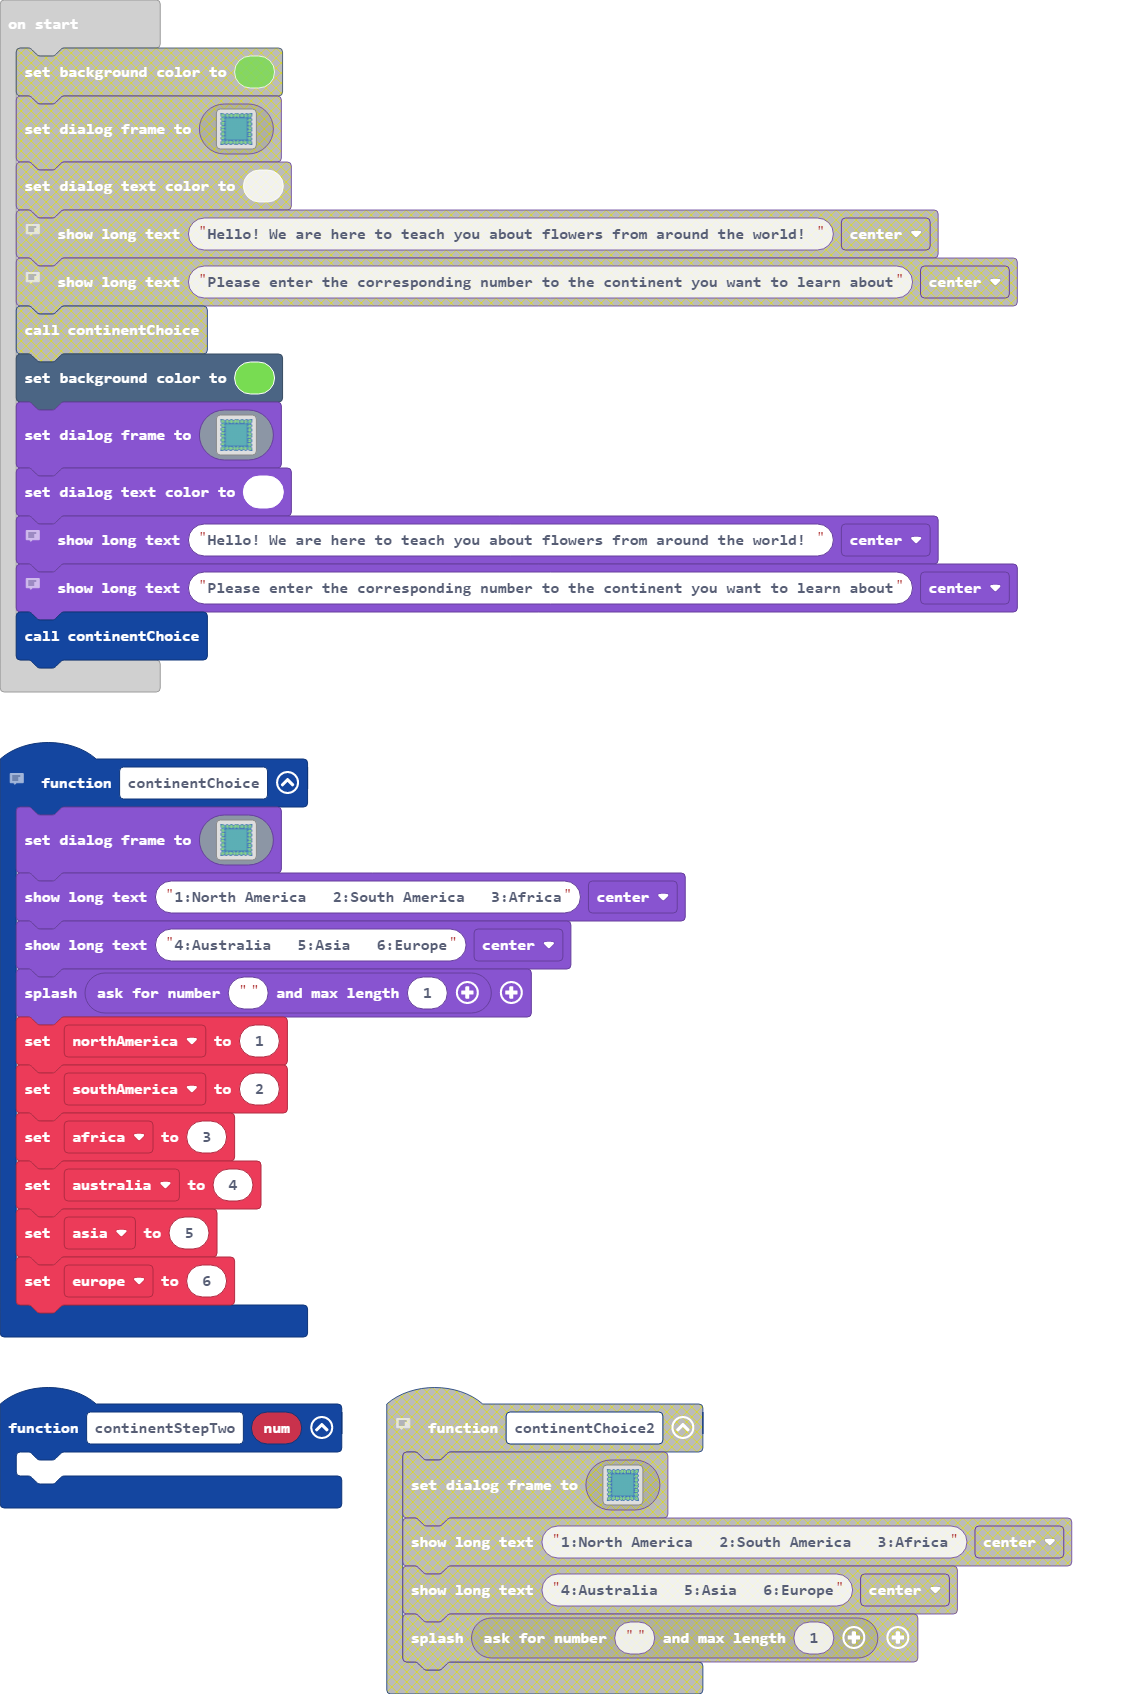
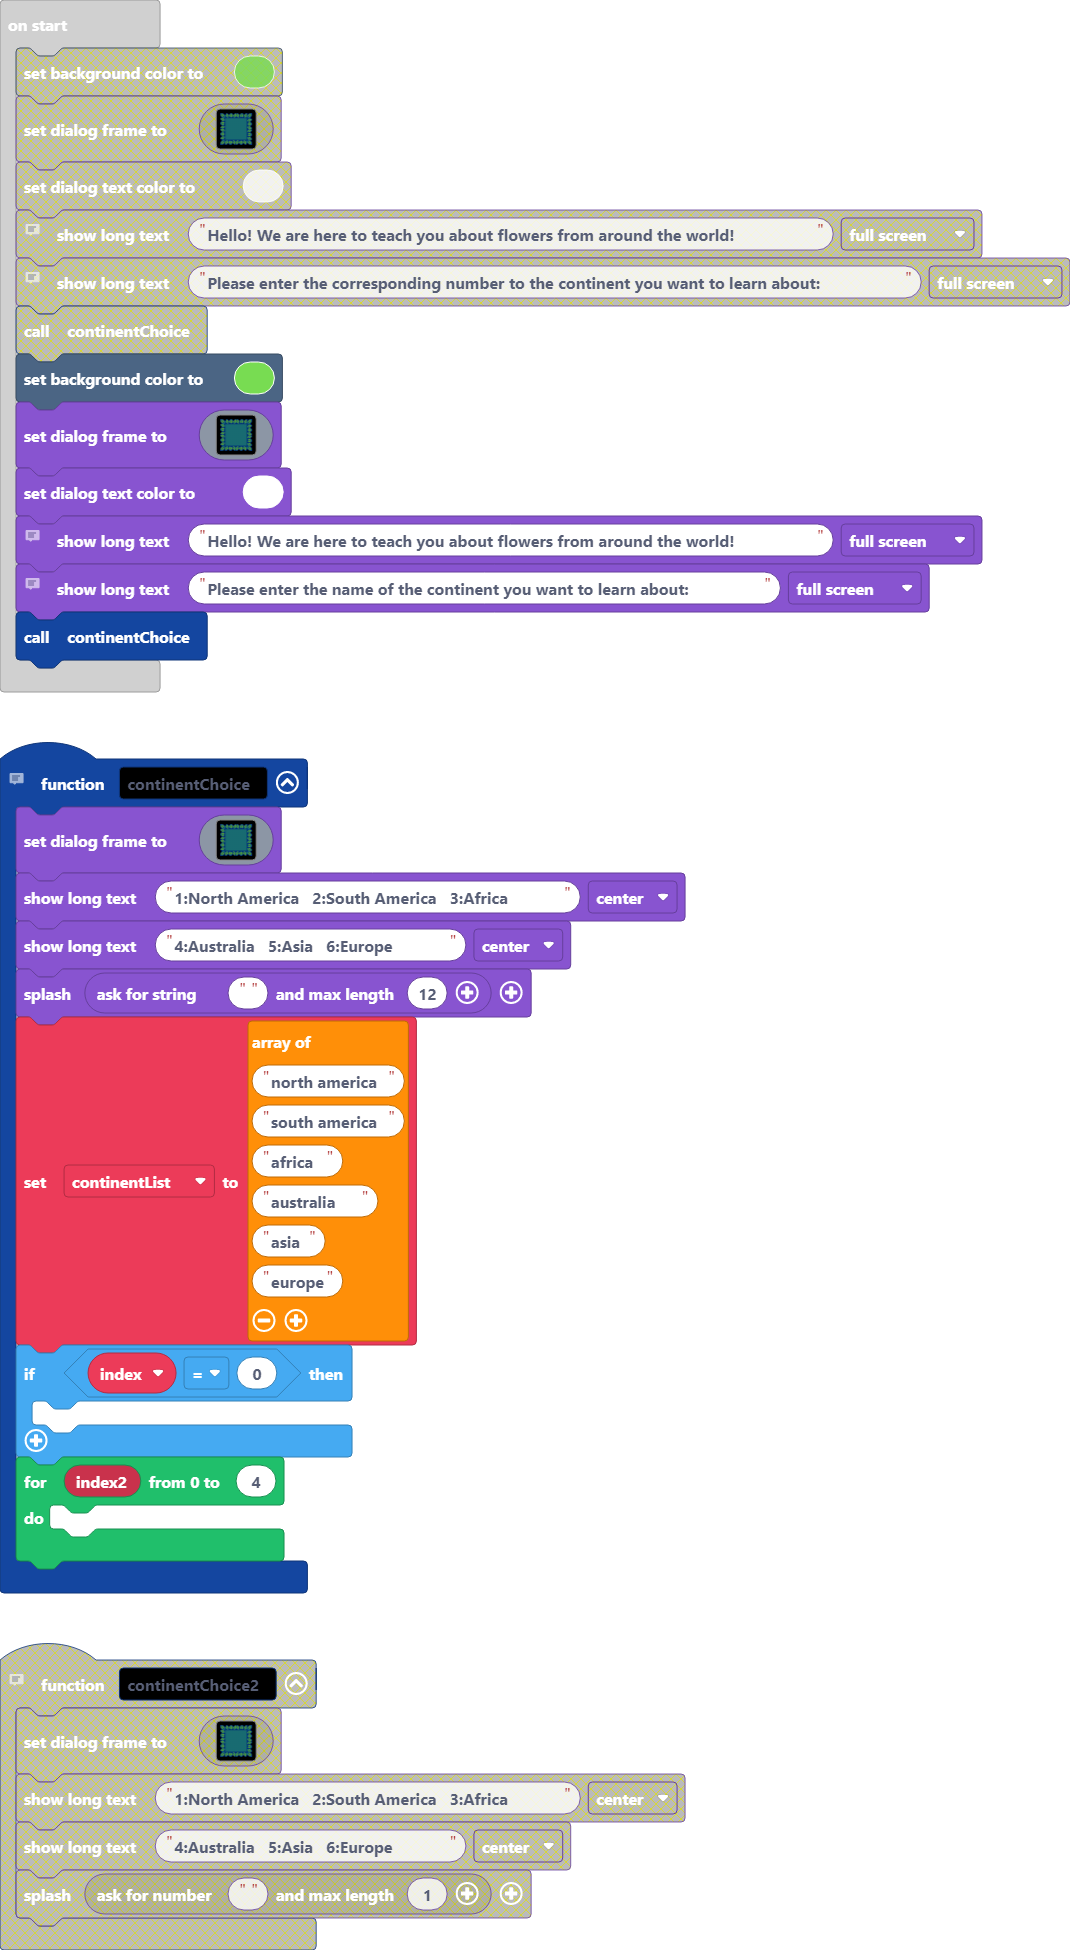
Update pxt.json, main.blocks, main.ts

diff --git a/main.ts b/main.ts
@@ -1,5 +1,6 @@
 // this function takes the user to the next step and shows them the choices and asks them for a number
 function continentChoice () {
+    let index = 0
     game.setDialogFrame(img`
         8888.....88....888....88.88....888....888...8888
         867788..8768..86768..8678768..86768..8678.887768
@@ -52,8 +53,23 @@ function continentChoice () {
         `)
     game.showLongText("1:North America   2:South America   3:Africa", DialogLayout.Center)
     game.showLongText("4:Australia   5:Asia   6:Europe", DialogLayout.Center)
-    game.splash(game.askForNumber("", 1))
+    game.splash(game.askForString("", 12))
+    continentList = [
+    "north america",
+    "south america",
+    "africa",
+    "australia ",
+    "asia",
+    "europe"
+    ]
+    if (index == 0) {
+    	
+    }
+    for (let index2 = 0; index2 <= 4; index2++) {
+    	
+    }
 }
+let continentList: string[] = []
 scene.setBackgroundColor(7)
 game.setDialogFrame(img`
     8888.....88....888....88.88....888....888...8888
@@ -109,5 +125,5 @@ game.setDialogTextColor(1)
 // This text intros the user and tells them what the game will include
 game.showLongText("Hello! We are here to teach you about flowers from around the world! ", DialogLayout.Full)
 // This long text is part two of the first text explaining what the game will be
-game.showLongText("Please enter the corresponding number to the continent you want to learn about:", DialogLayout.Full)
+game.showLongText("Please enter the name of the continent you want to learn about:", DialogLayout.Full)
 continentChoice()
